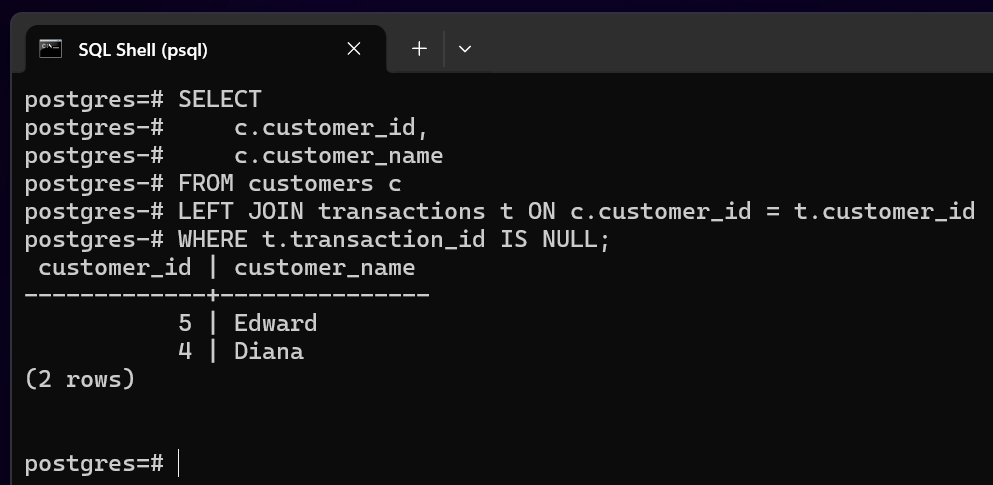
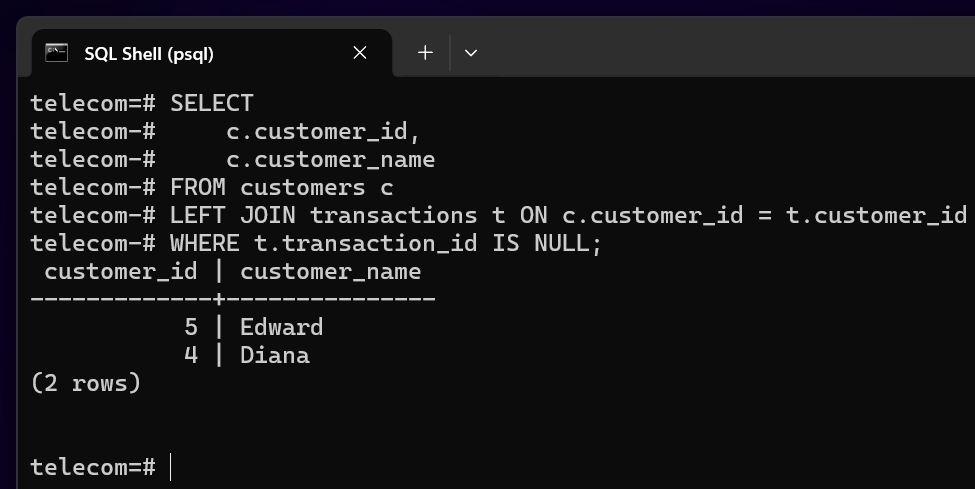
Fixed the Errors in Screenshot captures and Added ERD

Changed region(s): [[0.0, 0.0, 1.0, 1.0], [0.1846, 0.6495, 0.3385, 0.7423]]

diff --git a/README.md b/README.md
@@ -49,39 +49,38 @@ The database schema consists of three related tables:
 ```
 CREATE TABLE customers (
     customer_id SERIAL PRIMARY KEY,
-    full_name VARCHAR(100) NOT NULL,
-    region VARCHAR(50),
-    created_at DATE DEFAULT CURRENT_DATE
+    customer_name VARCHAR(100) NOT NULL,
+    region VARCHAR(50) NOT NULL,
+    registration_date DATE DEFAULT CURRENT_DATE
 );
 ```
 
-**_PRODUCTS_**
+**_SERVICES_**
 
 ```
-CREATE TABLE products (
-    product_id SERIAL PRIMARY KEY,
-    product_name VARCHAR(100) NOT NULL,
-    category VARCHAR(50),
-    price NUMERIC(10,2) NOT NULL
+CREATE TABLE services (
+    service_id SERIAL PRIMARY KEY,
+    service_name VARCHAR(100) NOT NULL,
+    service_type VARCHAR(50),
+    monthly_fee NUMERIC(10,2) NOT NULL
 );
 ```
 
-**_SALES_**
+**_TRANSACTIONS_**
 
 ```
-CREATE TABLE sales (
-    sale_id SERIAL PRIMARY KEY,
+CREATE TABLE transactions (
+    transaction_id SERIAL PRIMARY KEY,
     customer_id INT REFERENCES customers(customer_id),
-    product_id INT REFERENCES products(product_id),
-    quantity INT NOT NULL,
-    sale_date DATE NOT NULL,
-    total_amount NUMERIC(10,2) NOT NULL
+    service_id INT REFERENCES services(service_id),
+    transaction_date DATE NOT NULL,
+    amount_paid NUMERIC(10,2) NOT NULL
 );
 ```
 
 Each transaction references one customer and one service, forming one-to-many relationships.
 
-![ER Diagram](public/er_diagram.png)
+![ER Diagram](public/ER_Diagram.png)
 
 ---
 
@@ -124,7 +123,7 @@ WHERE t.transaction_id IS NULL;
 
 ---
 
-### 3. RIGHT JOIN - Services With No Sales
+### 3. RIGHT JOIN - Services With No Transactions
 
 ```sql
 SELECT
